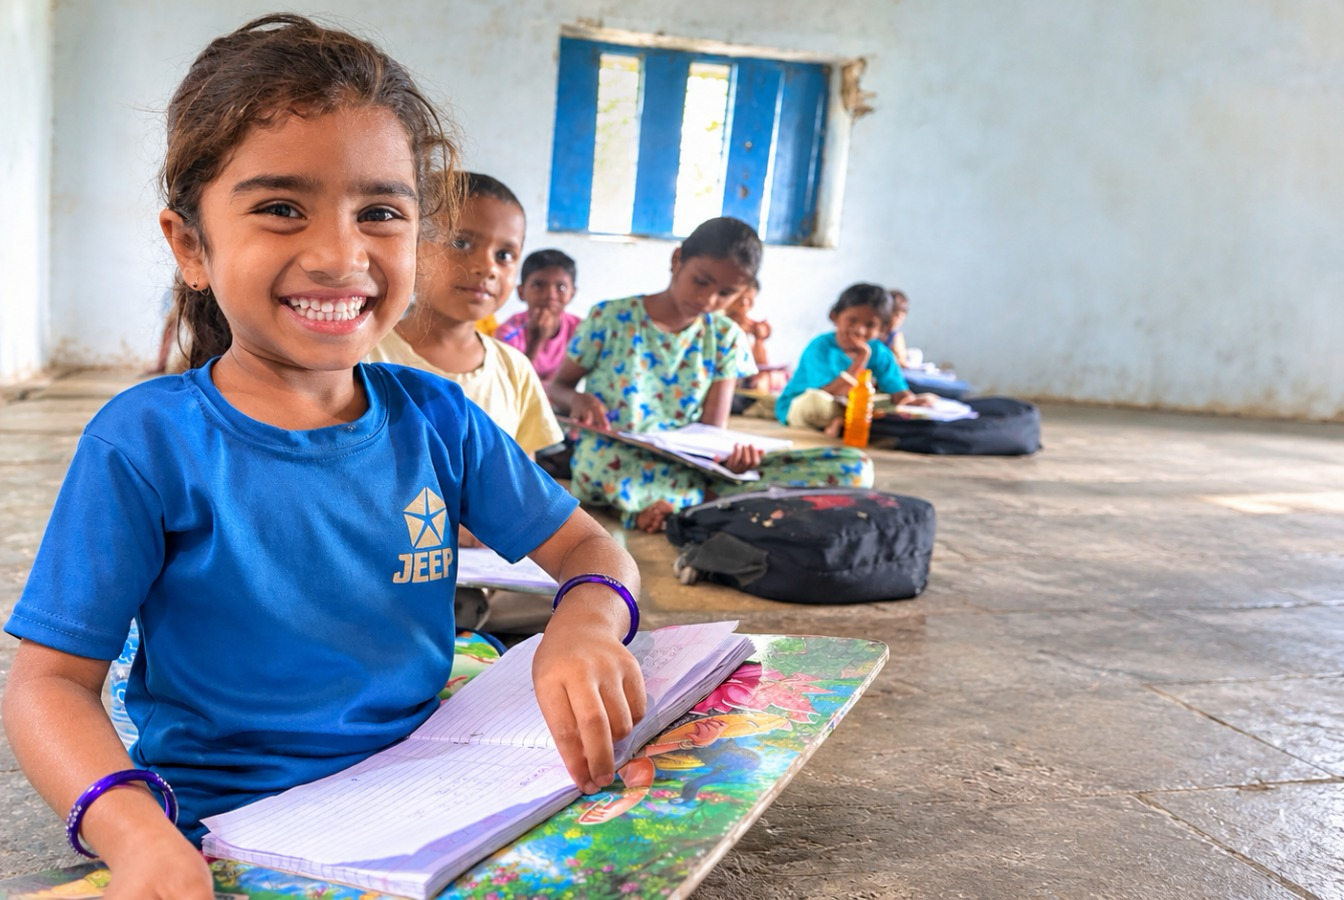
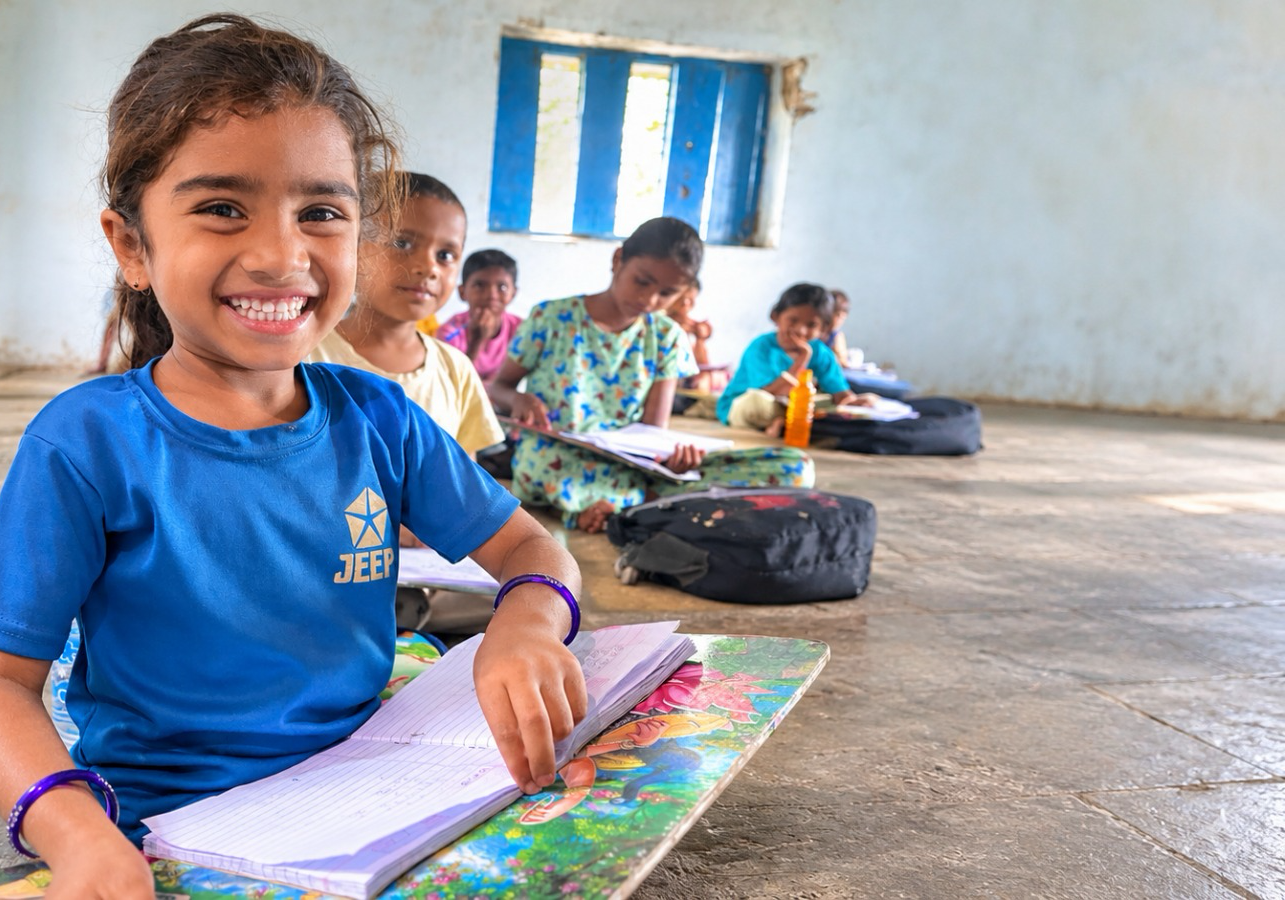
Crop complete left window and wall space from hero image

diff --git a/src/pages/Projects.jsx b/src/pages/Projects.jsx
@@ -1,9 +1,9 @@
 import React, { useState, useEffect, useRef } from 'react';
 import { orgDetails } from '../data/rlhpData';
 import AnimatedWaveUnderline from '../components/AnimatedWaveUnderline';
-import { 
-  Users, Handshake, CheckCircle2, Heart, Scale, BookOpen, 
-  Sparkles, Award, ArrowRight, ShieldCheck, Activity, Building2, 
+import {
+  Users, Handshake, CheckCircle2, Heart, Scale, BookOpen,
+  Sparkles, Award, ArrowRight, ShieldCheck, Activity, Building2,
   Leaf, UserCheck, Flame, Baby, HelpCircle, GraduationCap
 } from 'lucide-react';
 
@@ -73,7 +73,7 @@ export default function Projects({ setCurrentPage, onNavClick }) {
 
   return (
     <div className="font-sans bg-gray-50/50">
-      
+
       {/* ─── 1. TOP HERO SECTION: WHAT WE DO (Exact Replica of Reference 3) ─── */}
       <section className="relative pt-12 pb-16 px-4 sm:px-6 lg:px-8 bg-gradient-to-b from-[#eaf4eb]/90 via-[#f2f8f3] to-white border-b border-green-100/60 overflow-hidden">
         {/* Soft decorative glow */}
@@ -82,7 +82,7 @@ export default function Projects({ setCurrentPage, onNavClick }) {
 
         <div className="max-w-7xl mx-auto">
           <div className="grid lg:grid-cols-12 gap-10 lg:gap-8 items-center">
-            
+
             {/* Left Content (7 Cols) */}
             <div className="lg:col-span-7 space-y-6">
               <div>
@@ -230,17 +230,14 @@ export default function Projects({ setCurrentPage, onNavClick }) {
                 <div
                   key={idx}
                   onClick={() => setSelectedProgramIndex(isSelected ? null : idx)}
-                  className={`relative h-[380px] sm:h-[400px] w-full rounded-3xl overflow-hidden cursor-pointer select-none transition-all duration-500 border-2 bg-gray-900 ${
-                    isAdolescent ? 'lg:col-start-2 lg:translate-x-1/2' : ''
-                  } ${
-                    isSelected 
-                      ? 'border-emerald-400 shadow-[0_20px_45px_-10px_rgba(16,185,129,0.6)] scale-[1.02]' 
+                  className={`relative h-[380px] sm:h-[400px] w-full rounded-3xl overflow-hidden cursor-pointer select-none transition-all duration-500 border-2 bg-gray-900 ${isAdolescent ? 'lg:col-start-2 lg:translate-x-1/2' : ''
+                    } ${isSelected
+                      ? 'border-emerald-400 shadow-[0_20px_45px_-10px_rgba(16,185,129,0.6)] scale-[1.02]'
                       : `border-white/30 shadow-xl ${style.hoverGlow} hover:-translate-y-1.5`
-                  } ${
-                    isVisible 
-                      ? 'opacity-100 translate-y-0 scale-100' 
+                    } ${isVisible
+                      ? 'opacity-100 translate-y-0 scale-100'
                       : 'opacity-0 translate-y-8 scale-95 pointer-events-none'
-                  }`}
+                    }`}
                   style={{
                     willChange: 'transform, opacity',
                   }}
@@ -250,17 +247,15 @@ export default function Projects({ setCurrentPage, onNavClick }) {
                     <img
                       src={imageSrc}
                       alt={prog.title}
-                      className={`w-full h-full object-cover transition-transform duration-700 ${
-                        isSelected ? 'scale-105 filter blur-[2px]' : 'hover:scale-105'
-                      }`}
+                      className={`w-full h-full object-cover transition-transform duration-700 ${isSelected ? 'scale-105 filter blur-[2px]' : 'hover:scale-105'
+                        }`}
                     />
                   </div>
 
                   {/* ── FRONT OVERLAY (Visible by default) ── */}
                   <div
-                    className={`absolute inset-0 bg-gradient-to-t from-black/95 via-black/35 to-transparent p-5 sm:p-6 flex flex-col justify-end transition-opacity duration-300 ${
-                      isSelected ? 'opacity-0 pointer-events-none' : 'opacity-100'
-                    }`}
+                    className={`absolute inset-0 bg-gradient-to-t from-black/95 via-black/35 to-transparent p-5 sm:p-6 flex flex-col justify-end transition-opacity duration-300 ${isSelected ? 'opacity-0 pointer-events-none' : 'opacity-100'
+                      }`}
                   >
                     <div
                       className="w-8 h-1 rounded-full mb-2.5"
@@ -273,9 +268,8 @@ export default function Projects({ setCurrentPage, onNavClick }) {
 
                   {/* ── SELECTED CONTENT OVERLAY (Appears on click without flipping) ── */}
                   <div
-                    className={`absolute inset-0 p-6 sm:p-7 bg-gradient-to-br ${style.backGradient} backdrop-blur-sm text-white flex flex-col justify-center transition-all duration-300 ${
-                      isSelected ? 'opacity-100 translate-y-0 pointer-events-auto' : 'opacity-0 translate-y-4 pointer-events-none'
-                    }`}
+                    className={`absolute inset-0 p-6 sm:p-7 bg-gradient-to-br ${style.backGradient} backdrop-blur-sm text-white flex flex-col justify-center transition-all duration-300 ${isSelected ? 'opacity-100 translate-y-0 pointer-events-auto' : 'opacity-0 translate-y-4 pointer-events-none'
+                      }`}
                   >
                     <h3 className="text-base sm:text-lg lg:text-xl font-black text-white leading-snug mb-2.5">
                       {prog.title}
@@ -301,7 +295,7 @@ export default function Projects({ setCurrentPage, onNavClick }) {
       {/* ─── 3. WITH WHOM WE WORK (In Elegant Midnight Emerald Container) ─── */}
       <section className="w-full bg-[#132A1C] text-white py-16 sm:py-20 px-4 sm:px-6 lg:px-8 shadow-inner">
         <div className="max-w-6xl mx-auto space-y-8">
-          
+
           {/* Header */}
           <div className="text-center">
             <h2 className="text-3xl sm:text-4xl lg:text-5xl font-black text-white tracking-tight">

diff --git a/src/data/rlhpData.js b/src/data/rlhpData.js
@@ -443,28 +443,6 @@ Today, I am a skilled carpenter and earn around ₹15,000 per month. I am self-r
 My dream is to start my own carpentry business and create opportunities for children who come from difficult backgrounds like mine. I want to support other children and contribute to society, especially those from deprived communities. I will always be grateful to RLHP and Asha Kirana for giving me a safe home, education, skills and, most importantly, a dignified life.”`
   },
   {
-    id: "shwetha",
-    name: "Shwetha",
-    role: "Kumbrallimata Village",
-    designation: "Mother of Manoj (recovered from malnutrition)",
-    nameChanged: true,
-    image: "/images/gallery/maternal_health_awareness.jpg",
-    tag: "Child Malnutrition Recovery",
-    programme: "Maternal & Child Nutrition",
-    quote: "“My three-year-old son Manoj was underweight, weighing just 10.5 kg, and was not attending the Anganwadi regularly. With the guidance and support of RLHP, he was enrolled in the Anganwadi and began receiving nutritious food and supplements. Gradually, his health improved, and today he weighs 13.1 kg, is active and happy. I am grateful to RLHP and the Anganwadi worker for helping my child move towards a healthier future and educating me about the importance of child nutrition.”",
-    fullStory: `“My name is Shwetha, and I am the mother of my three-year-old son, Manoj. There was a time when I felt deeply worried and helpless seeing my child so weak. At an age when he should have been active and healthy, he weighed only 10.5 kg. As a mother, it was painful to see him that way, but I did not know what to do or how to help him.
-
-Manoj was not attending the Anganwadi and spent most of his time playing outside. He was not receiving proper food at regular intervals, and I was not aware of how important good nutrition is for a child’s growth and development.
-
-Everything began to change when the Rural Literacy and Health Programme (RLHP) visited our village. The RLHP team identified my child’s condition and guided me with care and patience. They did not simply give us advice; they supported us throughout the process. With their guidance, we enrolled Manoj in the Anganwadi, where he began receiving regular nutritious meals, eggs and supplements such as ragi mixture and Spirulina.
-
-Slowly, I began to notice a positive change in my child. He became more active, started eating better and gradually regained his happiness and energy. As a mother, seeing these changes brought me immense relief and joy.
-
-Today, Manoj weighs 13.1 kg. He is healthy, happy and enjoys playing with other children. Seeing him grow and play with confidence fills my heart with happiness.
-
-I am deeply thankful to RLHP and the Anganwadi worker for their care and support. RLHP not only helped my child move towards a healthier life but also helped me understand the importance of nutrition and better childcare. Their support has truly made a meaningful difference in our lives.”`
-  },
-  {
     id: "sahana",
     name: "Sahana",
     role: "Channarayapatna",

diff --git a/src/App.jsx b/src/App.jsx
@@ -73,7 +73,7 @@ export default function App() {
         return <AboutUs setCurrentPage={setCurrentPage} />;
       case 'programmes':
         return (
-          <Programmes 
+          <Programmes
             selectedProgrammeId={selectedProgrammeId}
             setSelectedProgrammeId={setSelectedProgrammeId}
             setCurrentPage={setCurrentPage}
@@ -83,10 +83,10 @@ export default function App() {
         return <WhereWeWork />;
       case 'projects':
         return (
-          <Projects 
-            initialCategory={selectedProjectCategory} 
-            setCurrentPage={setCurrentPage} 
-            onNavClick={handleNavClick} 
+          <Projects
+            initialCategory={selectedProjectCategory}
+            setCurrentPage={setCurrentPage}
+            onNavClick={handleNavClick}
           />
         );
       case 'impact':
@@ -101,12 +101,12 @@ export default function App() {
         return <SuccessStoriesPage onSelectNews={(item) => setSelectedMedia(item)} setCurrentPage={setCurrentPage} onNavClick={handleNavClick} />;
       case 'publications':
         return (
-          <PublicationsPage 
+          <PublicationsPage
             initialTab={selectedPublicationTab}
-            onSelectMedia={(item) => setSelectedMedia(item)} 
-            onSelectNews={(item) => setSelectedMedia(item)} 
-            setCurrentPage={setCurrentPage} 
-            onNavClick={handleNavClick} 
+            onSelectMedia={(item) => setSelectedMedia(item)}
+            onSelectNews={(item) => setSelectedMedia(item)}
+            setCurrentPage={setCurrentPage}
+            onNavClick={handleNavClick}
           />
         );
       case 'mis':
@@ -135,9 +135,9 @@ export default function App() {
   return (
     <div className="min-h-screen flex flex-col bg-gray-50 font-sans selection:bg-rlhp-green selection:text-white">
       {/* Sticky Navbar with working dropdowns and all 7 menu items */}
-      <Navbar 
-        currentPage={currentPage} 
-        setCurrentPage={setCurrentPage} 
+      <Navbar
+        currentPage={currentPage}
+        setCurrentPage={setCurrentPage}
         onNavClick={handleNavClick}
       />
 
@@ -147,14 +147,14 @@ export default function App() {
       </main>
 
       {/* Global Dark Green Footer */}
-      <Footer 
-        setCurrentPage={setCurrentPage} 
+      <Footer
+        setCurrentPage={setCurrentPage}
         onNavClick={handleNavClick}
       />
 
-      <ImageModal 
-        item={selectedMedia} 
-        onClose={() => setSelectedMedia(null)} 
+      <ImageModal
+        item={selectedMedia}
+        onClose={() => setSelectedMedia(null)}
       />
     </div>
   );

diff --git a/src/components/Navbar.jsx b/src/components/Navbar.jsx
@@ -58,9 +58,8 @@ export default function Navbar({ currentPage, setCurrentPage, onNavClick }) {
 
       {/* ══════════ MAIN NAVIGATION BAR (Top bar removed per user request) ══════════ */}
       <nav
-        className={`bg-[#1c1d1f] transition-all duration-300 border-b border-white/5 ${
-          scrolled ? 'shadow-2xl' : ''
-        }`}
+        className={`bg-[#1c1d1f] transition-all duration-300 border-b border-white/5 ${scrolled ? 'shadow-2xl' : ''
+          }`}
       >
         <div className="max-w-[1600px] mx-auto px-3 sm:px-5 lg:px-6 xl:px-8">
           <div className="flex items-center justify-between h-[86px] sm:h-[94px]">
@@ -129,9 +128,8 @@ export default function Navbar({ currentPage, setCurrentPage, onNavClick }) {
 
         {/* ══════════ MOBILE DRAWER ══════════ */}
         <div
-          className={`lg:hidden border-t border-gray-800 bg-[#1c1d1f] overflow-hidden transition-all duration-300 ease-in-out ${
-            mobileOpen ? 'max-h-[85vh] opacity-100' : 'max-h-0 opacity-0'
-          }`}
+          className={`lg:hidden border-t border-gray-800 bg-[#1c1d1f] overflow-hidden transition-all duration-300 ease-in-out ${mobileOpen ? 'max-h-[85vh] opacity-100' : 'max-h-0 opacity-0'
+            }`}
         >
           <div className="px-5 py-4 space-y-1.5 overflow-y-auto max-h-[80vh]">
             {NAV.map((item) => (
@@ -139,10 +137,9 @@ export default function Navbar({ currentPage, setCurrentPage, onNavClick }) {
                 key={item.label}
                 onClick={() => go(item.id)}
                 className={`w-full text-left px-4 py-3 rounded-lg text-[14px] font-bold transition-colors
-                  ${
-                    active(item)
-                      ? 'bg-white/10 text-[#4CAF50] border-l-4 border-[#4CAF50]'
-                      : 'text-white hover:bg-white/5'
+                  ${active(item)
+                    ? 'bg-white/10 text-[#4CAF50] border-l-4 border-[#4CAF50]'
+                    : 'text-white hover:bg-white/5'
                   }`}
               >
                 {item.label}
